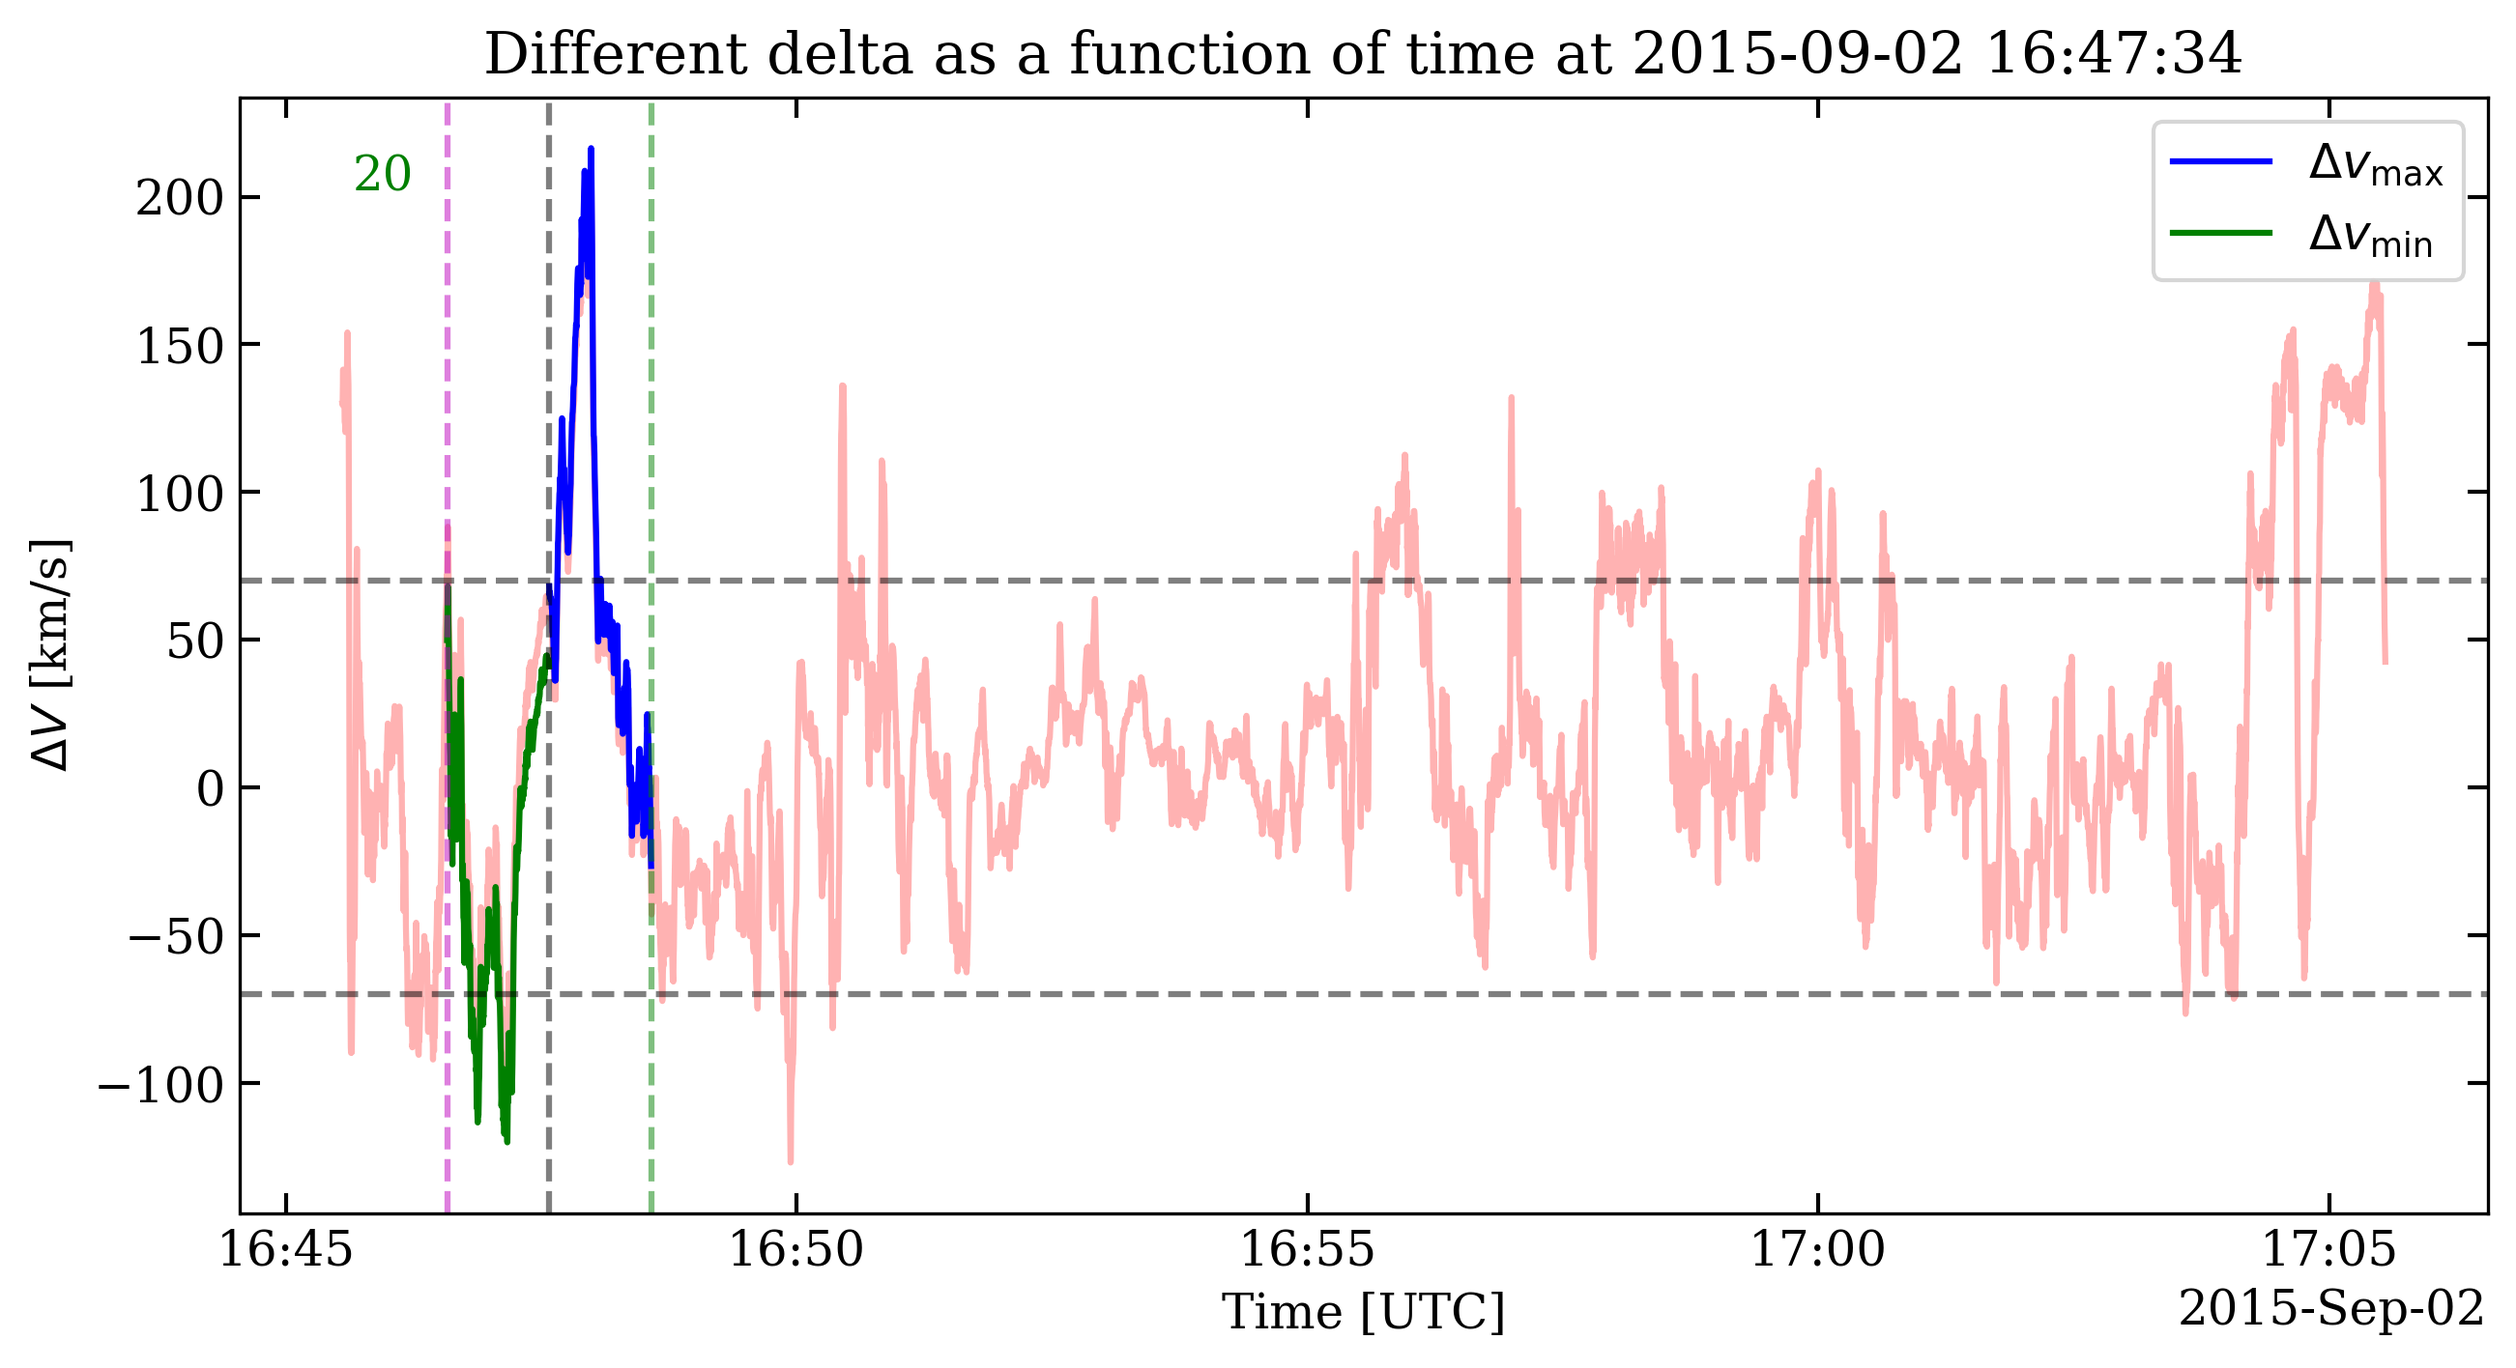
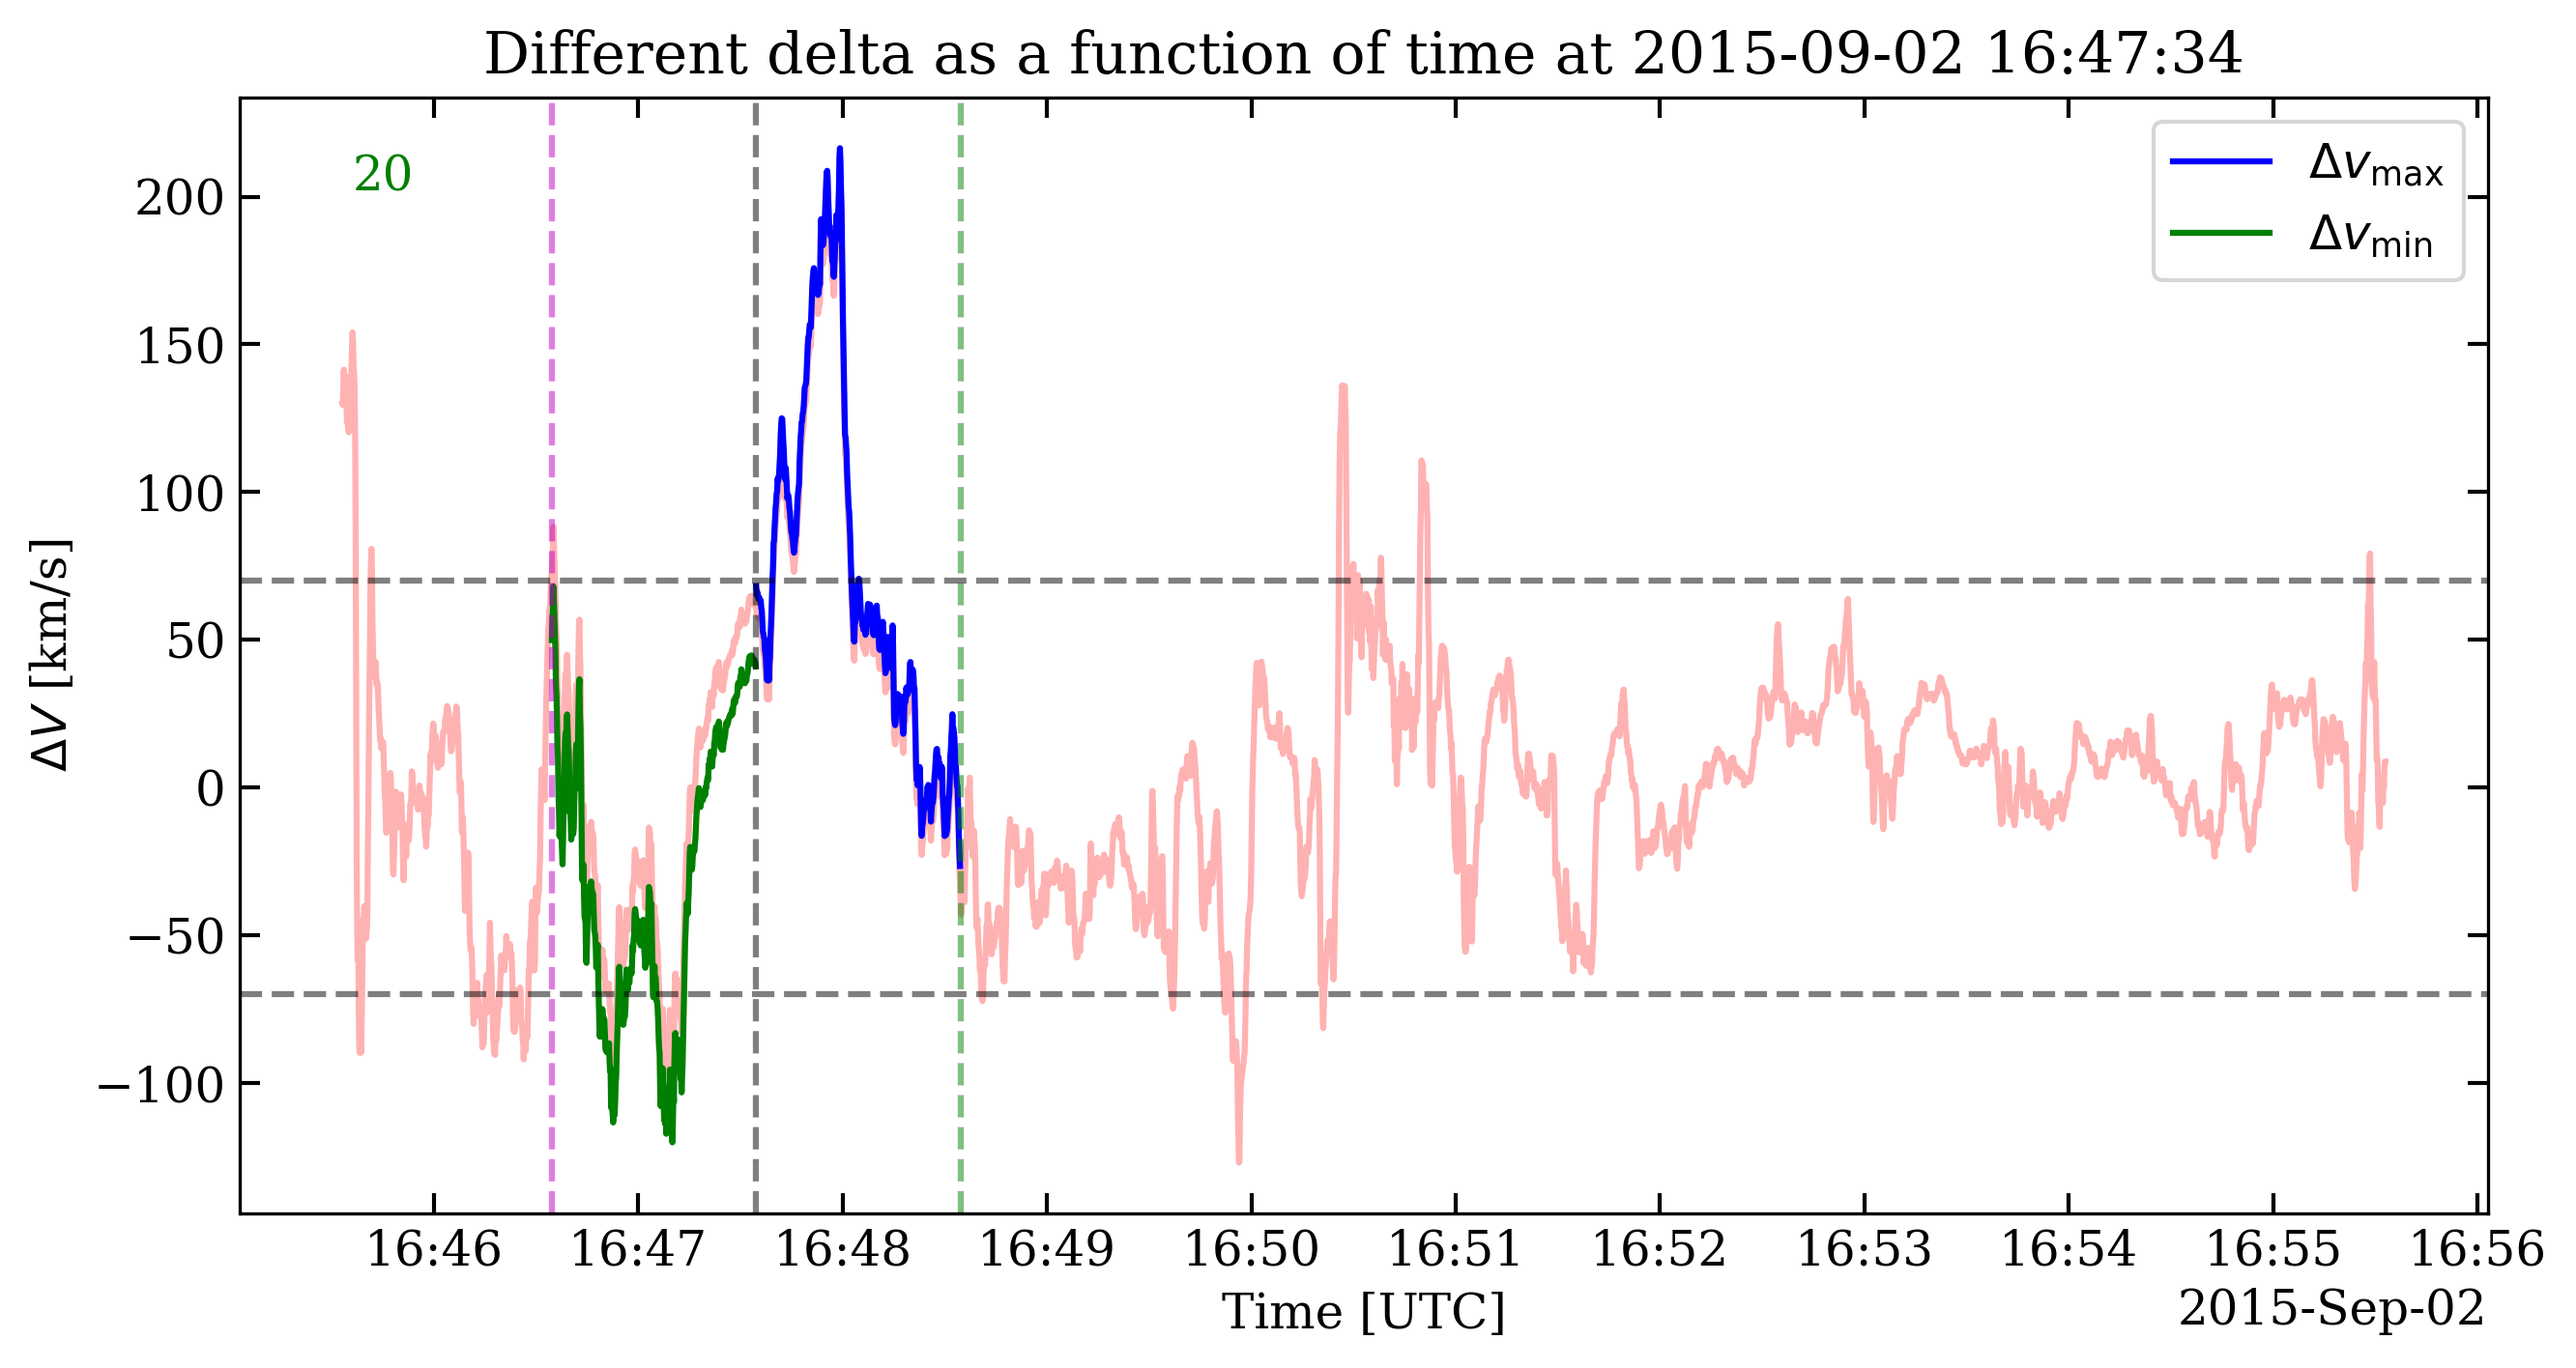
modified:   jet_reversal_quick_check_function_beta.py 	modified:   jet_reversal_quick_check_parallel_beta.py 	modified:   ../data/mms_jet_reversal_times_list_20230213_beta_brst.csv 	new file:   ../figures/jet_reversal_checks/check_20230213/brst/jet/mms3_20150902_1647_00020_42s_2.0rw_47th.png 	new fi

diff --git a/codes/jet_reversal_quick_check_parallel_beta.py b/codes/jet_reversal_quick_check_parallel_beta.py
@@ -38,7 +38,7 @@ def check_jet_reversal(crossing_time):
     crossing_time = crossing_time.replace(tzinfo=pytz.utc)
     # Try with 'brst' data rate, if that fails then try with 'fast'
     inputs = {'crossing_time': crossing_time,
-              'dt': 600,
+              'dt': 300,
               'probe': 3,
               'jet_len': 3,
               'level': 'l2',
@@ -146,7 +146,7 @@ for foo in range(1):
         indx_max = indx_min + 1
         # for xx, crossing_time in enumerate(df_crossings.index[indx_min:indx_max],
         #                                    start=indx_min):
-        for xx, crossing_time in enumerate(['2015-09-02 16:55:33.000'],
+        for xx, crossing_time in enumerate(['2015-09-02 16:50:33.000'],
                                            start=indx_min):
 
             check_jet_reversal(crossing_time)

diff --git a/codes/jet_reversal_quick_check_function_beta.py b/codes/jet_reversal_quick_check_function_beta.py
@@ -96,8 +96,8 @@ def jet_reversal_check(crossing_time=None, dt=90, probe=3, data_rate='fast', lev
     #                                index_col=False)
     # df_crossing_temp.set_index("jet_time", inplace=True)
     # crossing_time_str = crossing_time.strftime("%Y-%m-%d %H:%M:%S")
-    ind_crossing = np.where(df_crossing_temp.index == crossing_time_str)[0][0]
-    # ind_crossing = 20
+    # ind_crossing = np.where(df_crossing_temp.index == crossing_time_str)[0][0]
+    ind_crossing = 20
 
     # Get the data from the FPI
     mms_fpi_varnames = [f'mms{probe}_dis_numberdensity_{data_rate}',
